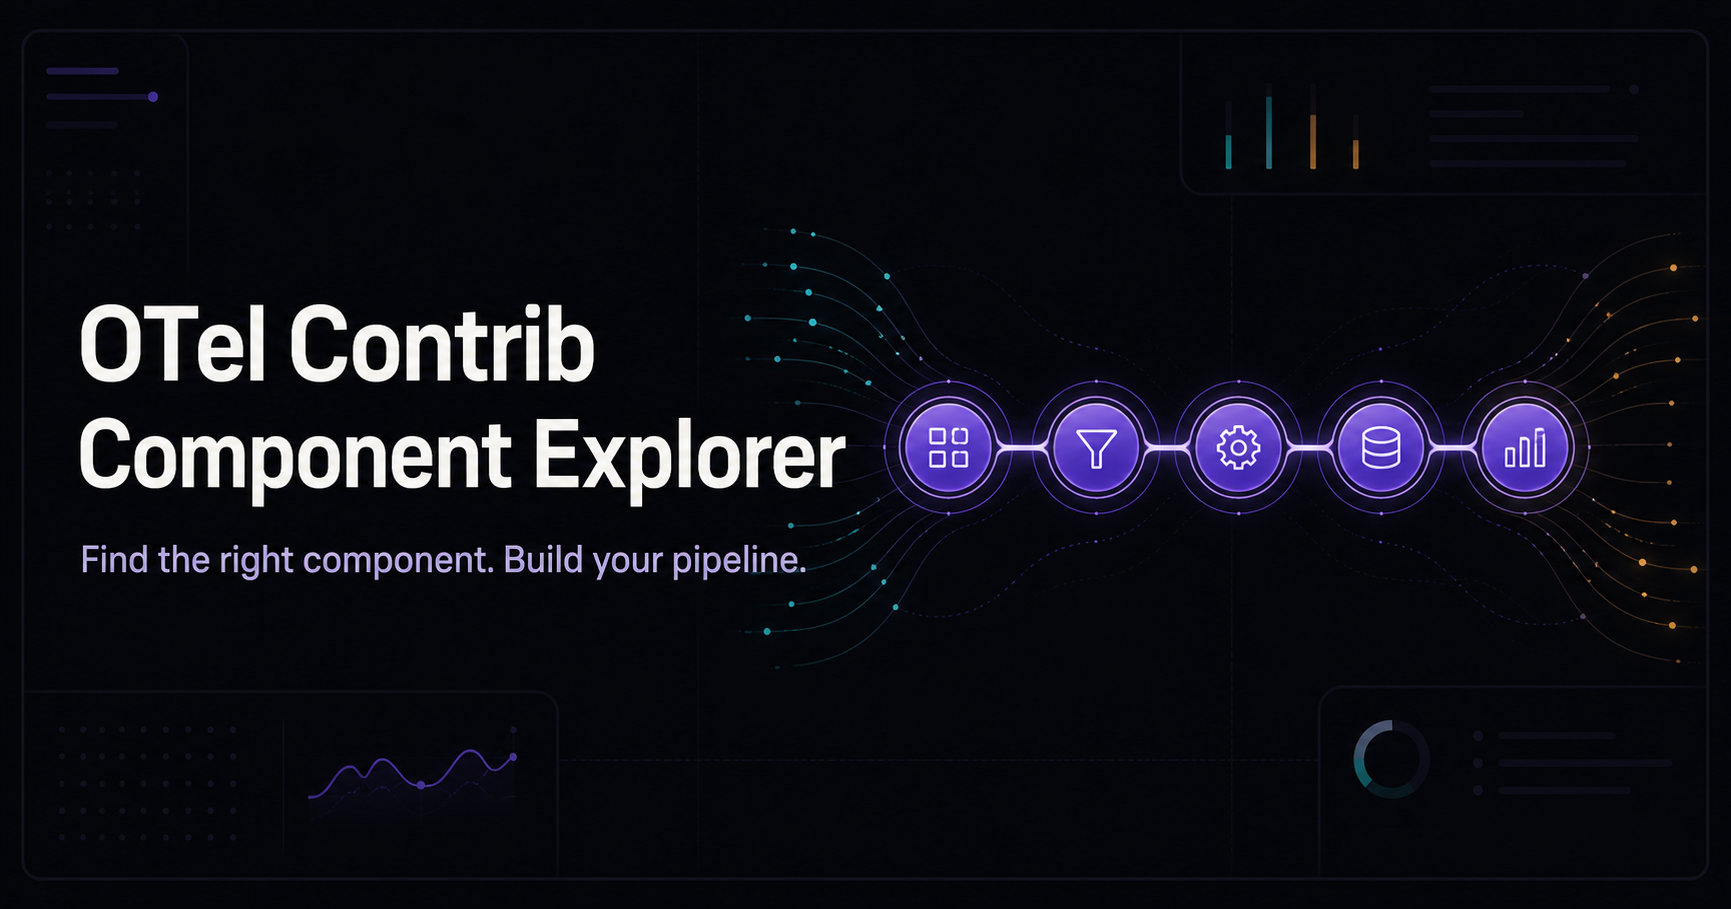
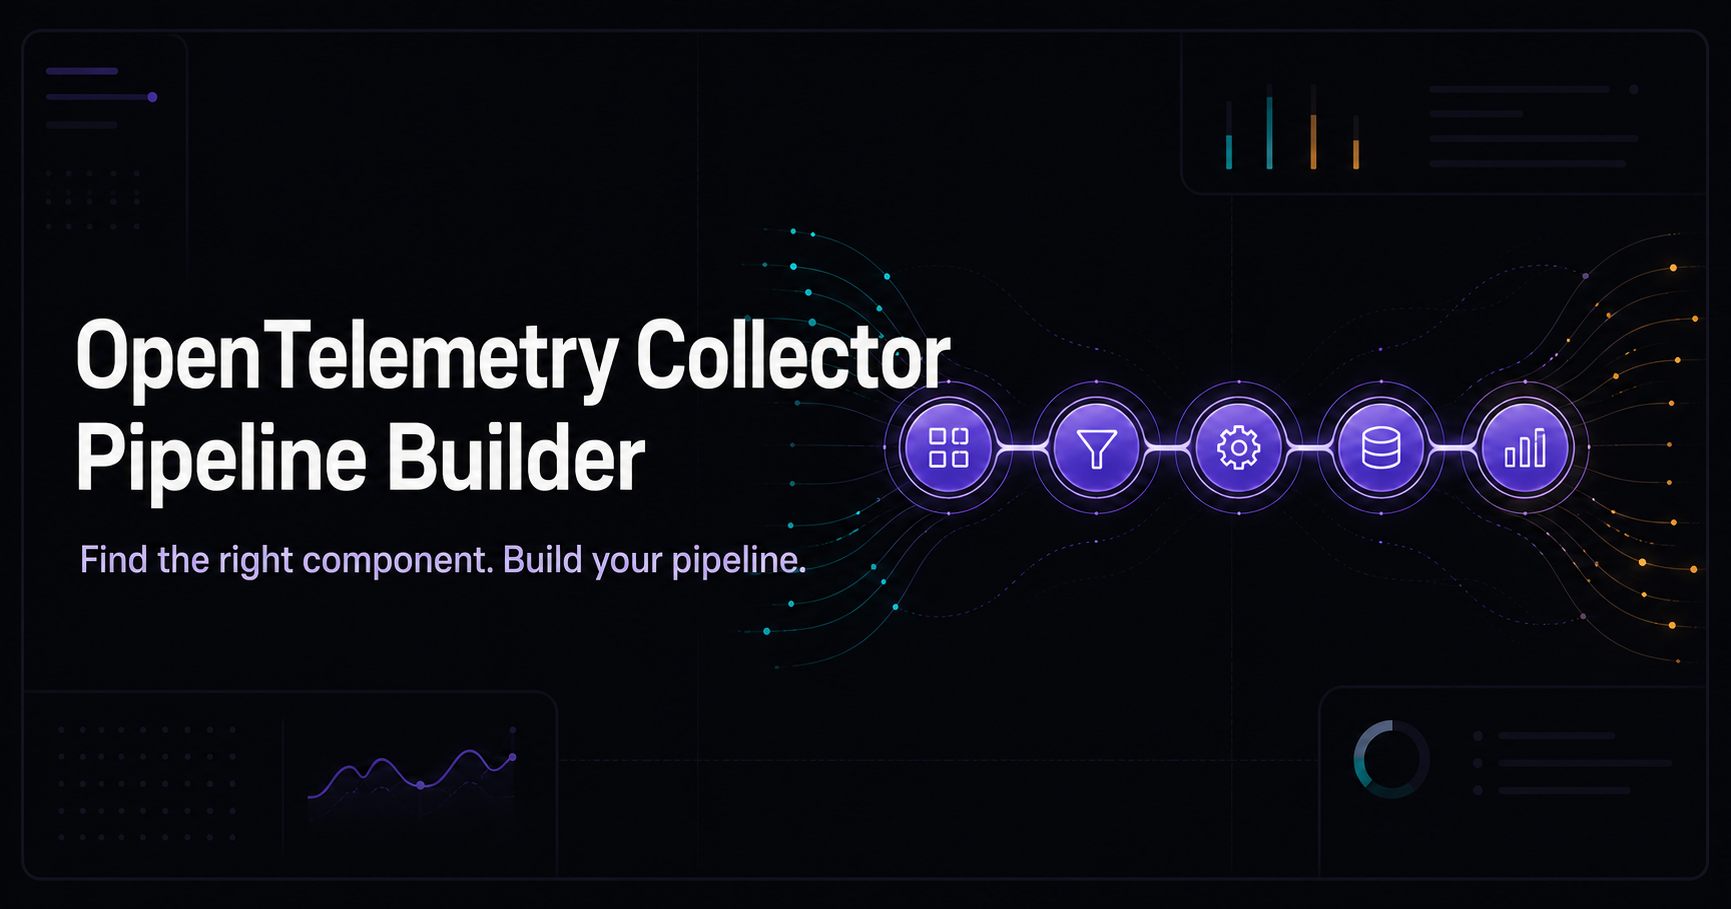
update project image & rename attributes

diff --git a/index.html b/index.html
@@ -3,12 +3,12 @@
   <head>
     <meta charset="UTF-8" />
     <meta name="viewport" content="width=device-width, initial-scale=1.0" />
-    <meta name="description" content="Explore every OpenTelemetry Collector Contrib component." />
-    <meta property="og:title" content="OTel Collector Contrib Component Explorer" />
+    <meta name="description" content="Explore OpenTelemetry Collector Contrib components and build a deployable telemetry pipeline." />
+    <meta property="og:title" content="OpenTelemetry Collector Pipeline Builder" />
     <meta property="og:description" content="Find the right component. Build your pipeline." />
     <meta property="og:image" content="./og.png" />
     <link rel="icon" href="./favicon.svg" />
-    <title>OTel Collector Contrib Component Explorer</title>
+    <title>OpenTelemetry Collector Pipeline Builder</title>
   </head>
   <body>
     <div id="root"></div>

diff --git a/app/page.tsx b/app/page.tsx
@@ -157,9 +157,9 @@ export default function Home() {
   return (
     <main className="app-shell">
       <aside className="sidebar">
-        <a className="brand" href="#top" onClick={() => jumpTo("all")} aria-label="OTel Collector Contrib Explorer home">
+        <a className="brand" href="#top" onClick={() => jumpTo("all")} aria-label="OTel Collector Pipeline Builder home">
           <span className="brand-mark"><i /><i /><i /></span>
-          <span><strong>OTel </strong><strong>Collector </strong><strong>Contrib</strong><small>Component explorer</small></span>
+          <span><strong>OTel </strong><strong>Collector </strong><small>Pipeline Builder</small></span>
         </a>
         <nav aria-label="Component categories">
           <p className="nav-label">Browse components</p>

diff --git a/README.md b/README.md
@@ -1,7 +1,10 @@
-# OTel Collector Contrib Component Explorer
+# OpenTelemetry Collector Pipeline Builder
+
+![OpenTelemetry Collector Pipeline Builder](public/readme-banner.png)
 
 A static React interface for browsing OpenTelemetry Collector Contrib receivers,
-processors, exporters, extensions, and connectors.
+processors, exporters, extensions, and connectors, then assembling them into a
+visual pipeline with a generated Collector YAML configuration.
 
 ## Local development
 
